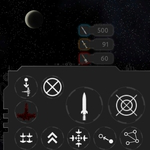
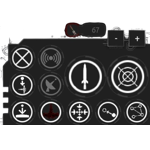
update additional.command.buttons.radial

diff --git a/myplugins/additional.command.buttons.radial/README.md b/myplugins/additional.command.buttons.radial/README.md
@@ -5,10 +5,12 @@ Reworks the main buttons ui on the lower right side. Made for the mobile version
 <br>
 This plugin<br>
 - rearranges and resizes some of the buttons<br>
+- changes most icons (make ring around as a standart)
 - adds more permanent buttons from the radial menus to make them easy accessible<br>
 - removes the radial menus<br>
-- adds a new panel to the top center for the fleet commands<br>
-- hides unnecessary buttons/panel when they are inactive<br>
+- adds a new button row to the top center for the fleet commands<br>
+- adds zoom buttons
+- greyes out inactive buttons<br>
 - puts images behind the buttons.<br>
 <img src='https://raw.githubusercontent.com/zuckung/endless-sky-plugins/master/screenshots/additional.command.buttons.radial01.jpg' width='400'>
 <br>
@@ -19,6 +21,7 @@ Changelog:<br>
 2024-08-30<br>
 fixed an error<br>
 adjusted positions<br>
+added zoom buttons<br>
 all buttons are visible now, but greyed out if you can't use them<br>
 reworked all buttons to display a ring around them<br>
 resized the fast forward button in the upper left corner, and added a greyed out version<br>
